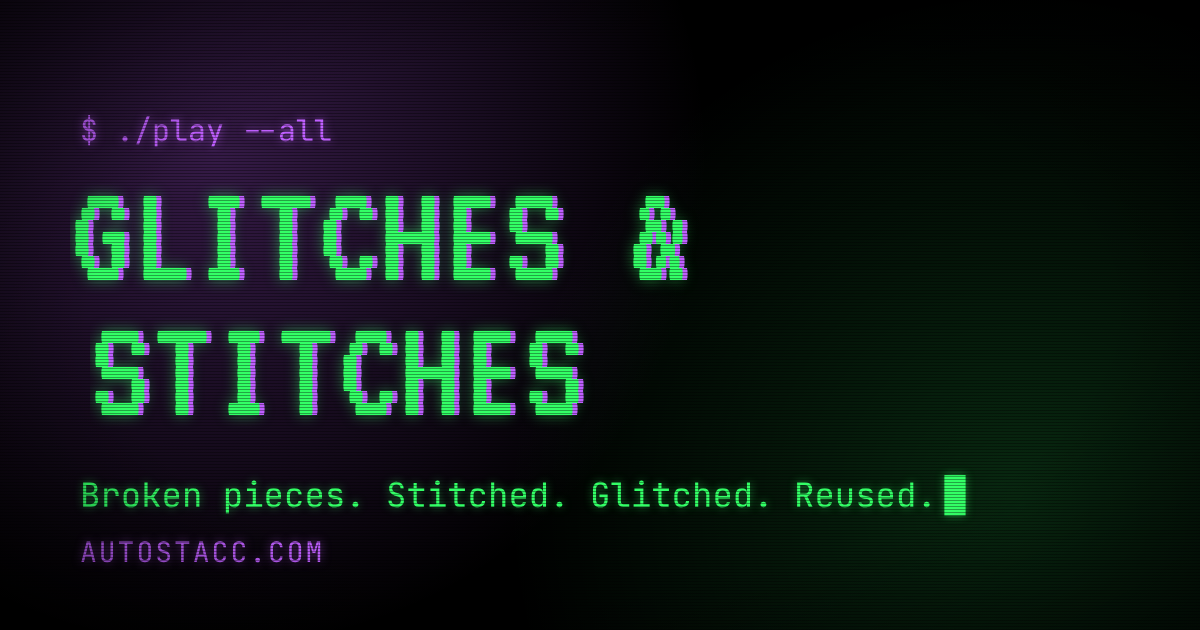
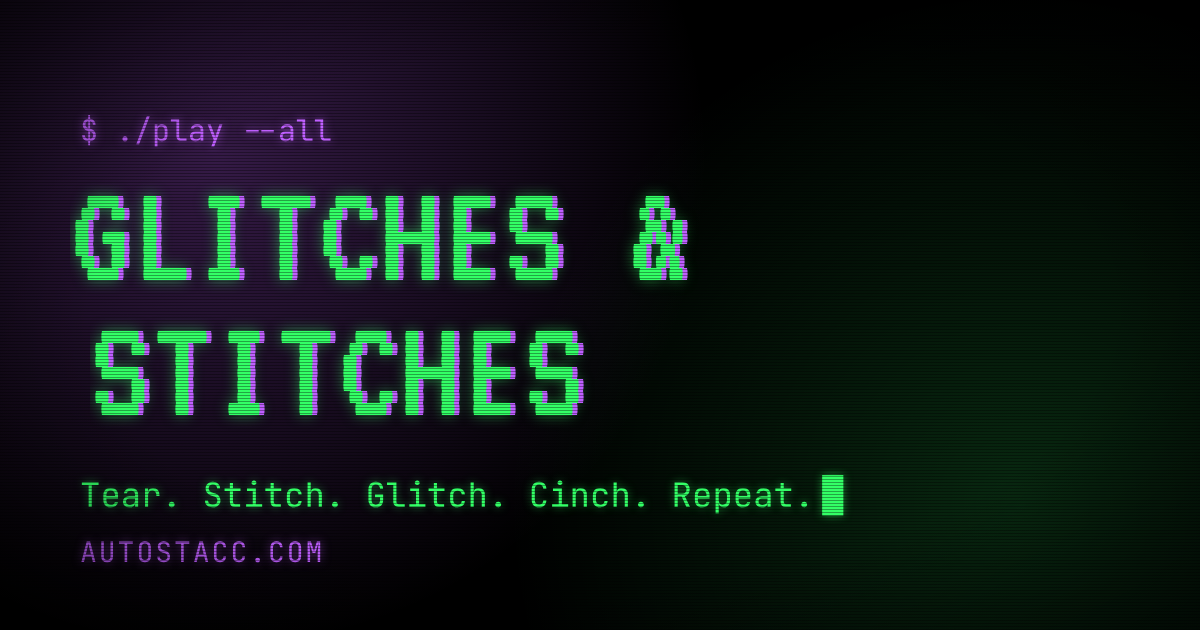
Use the chant Tear. Stitch. Glitch. Cinch. Repeat.
The owner's catchy short form of the process becomes the hero tagline,
the five steps of The loop, terminal commands, the press fact sheet and
the link-preview image, and is recorded in docs/identity.md.

Claude-Session: https://claude.ai/code/session_01MLYjBnQhW3e44tUV22oGeB

Changed region(s): [[0.0617, 0.754, 0.8325, 0.8444]]

diff --git a/home.html b/home.html
@@ -38,7 +38,7 @@
       <div class="wrap">
         <a class="kicker" href="#listen">latest single: HAIL <span>// out now</span></a>
         <h1 class="glitch" data-text="GLITCHES &amp; STITCHES">GLITCHES &amp; STITCHES</h1>
-        <p class="cursor" data-type="450">Broken pieces. Stitched. Glitched. Reused.</p>
+        <p class="cursor" data-type="450">Tear. Stitch. Glitch. Cinch. Repeat.</p>
         <div class="actions">
           <a class="btn" href="#listen">Listen</a>
           <a class="btn ghost" href="shop.html">Shop downloads</a>
@@ -108,13 +108,11 @@
         <div class="section-head"><h2>The loop</h2></div>
         <p class="loop-intro">Every finished track is a parts bin for the next one.</p>
         <ol class="loop">
-          <li><strong>Create</strong> <span>Start a song or an idea.</span></li>
-          <li><strong>Finish</strong> <span>Get it far enough to join the catalog.</span></li>
-          <li><strong>Extract</strong> <span>Pull out the best pieces: a drop, a melody, a texture.</span></li>
-          <li><strong>Stitch</strong> <span>Sew those pieces into another track.</span></li>
-          <li><strong>Glitch</strong> <span>Chop, corrupt and reinterpret them.</span></li>
-          <li><strong>Stitch it all</strong> <span>Combine whole previous tracks. Remix².</span></li>
-          <li><strong>Repeat</strong> <span>Feed it back into the library and go again.</span></li>
+          <li><strong>Tear</strong> <span>Rip the best pieces out of old songs: a drop, a melody, a happy accident.</span></li>
+          <li><strong>Stitch</strong> <span>Sew those fragments together into something new.</span></li>
+          <li><strong>Glitch</strong> <span>Chop, corrupt and reinterpret them until they're their own thing.</span></li>
+          <li><strong>Cinch</strong> <span>Pull it tight and lock it in: finished, into the catalog.</span></li>
+          <li><strong>Repeat</strong> <span>Now it's a piece too. Tear it up again. Remix².</span></li>
         </ol>
       </div>
     </section>

diff --git a/js/terminal.js b/js/terminal.js
@@ -10,15 +10,20 @@
 
   const COMMANDS = {
     help: () =>
-      "commands: ls, open <page>, play hail, loop, whoami, about, booking, sound on|off, remix, hail, date, echo, clear, exit",
+      "commands: ls, open <page>, play hail, loop, tear, stitch, glitch, cinch, repeat, whoami, about, booking, sound on|off, remix, hail, date, echo, clear, exit",
     ls: () => "home/  music/  shows/  shop/  news/  press/  hail.wav  unfinished_ideas/ (412 files)",
     open: (a) => ({ home: go("home.html"), music: go("home.html#listen"), shows: go("home.html#shows"), shop: go("shop.html"),
       news: go("news.html"), press: go("press.html") }[a] || (() => `open: no such page: ${a || "(nothing)"}. try ls`))(),
     cd: (a) => COMMANDS.open(a.replace(/\/$/, "")),
     play: (a) => (/hail/i.test(a) ? go("home.html#listen")() : "play: try `play hail`"),
-    loop: () => "[01] create  [02] finish  [03] extract  [04] stitch  [05] glitch  [06] stitch it all  [07] repeat ↻ 01",
+    loop: () => "[01] tear  [02] stitch  [03] glitch  [04] cinch  [05] repeat ↻ 01",
     whoami: () => "guest. or a fragment that hasn't been stitched in yet.",
-    about: () => "Glitches & Stitches: unfinished songs are raw material. take broken pieces, stitch them, glitch them, reuse them.",
+    about: () => "Glitches & Stitches: unfinished songs are raw material. tear. stitch. glitch. cinch. repeat.",
+    tear: () => "> ripping fragments out of old songs... 412 found.",
+    stitch: () => "> sewing fragments together... done. it holds.",
+    glitch: () => { emit("gs:sound", "zap"); return "> c̷o̴r̶r̸u̵p̶t̷i̵n̴g... perfect."; },
+    cinch: () => "> pulled tight. locked in. added to the catalog.",
+    repeat: () => "> it's a piece now too. back to: tear.",
     booking: () => (SITE.email ? `> ${SITE.email} (or /press)` : "> see /press"),
     sound: (a) => {
       if (a !== "on" && a !== "off") return "usage: sound on|off";

diff --git a/press.html b/press.html
@@ -68,7 +68,7 @@
             <dl class="facts">
               <dt>Project</dt><dd>Glitches &amp; Stitches</dd>
               <dt>Genre</dt><dd>Electronic / EDM</dd>
-              <dt>Method</dt><dd>Extract, stitch, glitch, reuse</dd>
+              <dt>Method</dt><dd>Tear. Stitch. Glitch. Cinch. Repeat.</dd>
               <dt>Latest</dt><dd>HAIL (single, 2025)</dd>
               <dt>Website</dt><dd><a href="home.html">autostacc.com</a></dd>
             </dl>

diff --git a/css/home.css b/css/home.css
@@ -149,7 +149,7 @@
   padding: 10px 0;
 }
 .loop strong {
-  min-width: 21ch;
+  min-width: 12ch;
   color: var(--green);
   text-transform: uppercase;
   letter-spacing: .06em;

diff --git a/docs/brand.md b/docs/brand.md
@@ -15,13 +15,13 @@ Old-school terminal (owner's choice, 2026-10-07): a glowing CRT screen in three 
 - Black background (`#000`, panels `#0b0812`). White `#f2f2f2` for reading text (light grey `#b8b8c0` for secondary text), phosphor green `#33ff66` for headings, prices and the logo (dim `#24b350` for nav, footer and dates), neon purple `#bf5fff` for links, buttons, tags and show dates
 - Soft glow on green and purple text, scanlines and darkened screen edges over the page, square corners
 - Terminal touches: `$ ` before section titles, `> ` on buttons and the current nav link, a blinking block cursor after the hero tagline
-- Stitching is a feel, not a decoration: no sewing lines, dashes or stitch marks. Instead things look pieced together from fragments: alternate panels (`.alt`) have small steps in their top and bottom edges like fitted pieces, cards and news items sit slightly off a purple copy of themselves and snap into place on hover, the About monogram is torn in half and rejoined misaligned, and "The loop" reads like a terminal log (`[01] CREATE` ... `[07] REPEAT ↻ 01`)
+- Stitching is a feel, not a decoration: no sewing lines, dashes or stitch marks. Instead things look pieced together from fragments: alternate panels (`.alt`) have small steps in their top and bottom edges like fitted pieces, cards and news items sit slightly off a purple copy of themselves and snap into place on hover, the About monogram is torn in half and rejoined misaligned, and "The loop" reads like a terminal log (`[01] TEAR` ... `[05] REPEAT ↻ 01`), using the chant from [identity](identity.md): Tear. Stitch. Glitch. Cinch. Repeat.
 - Thin solid 1px lines for structure
 - Glitching is constant but small: page titles twitch in bursts, and every 6 to 14 seconds one visible title (section heading, cover, loop step or logo) "zaps" briefly (`js/motion.js`). Glitch and cursor stop for reduced-motion users
 - Nothing stops moving between pages: changing page is a view transition where the header stays put, the old page slices out and the new one skews in (`@view-transition` in `css/base.css`, Chrome/Edge/Safari; others just load). The rolling refresh band runs on wall-clock time so it carries on across pages, and the shop filter cross-fades its cards
 - Motion is quick and snappy (`--snap` easing, 0.1 to 0.5s): the home title powers on like a CRT, the hero tagline types itself out, sections flicker on and cards, news and shows rise in as you scroll (`js/motion.js`), the glitch title twitches in short bursts every few seconds, and a faint refresh band rolls down the screen. Hover: cards lift and glow with scrolling scanlines and a one-off title twitch, links wipe in an underline, buttons press in. All of it is off for reduced-motion users.
 - Sound is opt-in: a `[SND:OFF]` switch in the header (remembered per browser). Sounds are made in the browser (`js/sound.js`), short and quiet: a bit-crushed blip on clicks, a burst of static when leaving a page, a crackle on glitch zaps, key ticks while the tagline types. Never background music or autoplay (WCAG 1.4.2). Other scripts request sounds with a `gs:sound` event. Later these can be swapped for fragments of HAIL and future tracks.
-- Easter eggs (hidden, on-identity, never in the way): `~` opens a terminal (`js/terminal.js`: help, ls, open, play hail, loop, whoami, sound, remix, and jokes like `sudo`), typing "hail" makes it hail, the Konami code tears the page and swaps green and purple ("remix²", for the visit), five clicks on the About monogram shatter it, the tab title becomes "[signal lost]" when you leave, a console hello, rotating 404 jokes (`js/eggs.js`, `css/eggs.css`). Reduced motion keeps the messages but skips the animation.
+- Easter eggs (hidden, on-identity, never in the way): `~` opens a terminal (`js/terminal.js`: help, ls, open, play hail, loop, whoami, sound, remix, each step of the chant as its own command, and jokes like `sudo`), typing "hail" makes it hail, the Konami code tears the page and swaps green and purple ("remix²", for the visit), five clicks on the About monogram shatter it, the tab title becomes "[signal lost]" when you leave, a console hello, rotating 404 jokes (`js/eggs.js`, `css/eggs.css`). Reduced motion keeps the messages but skips the animation.
 - Product covers glow green or purple depending on the product's `hue`
 - Fonts: VT323 (pixel terminal font) for the logo, headings and covers; JetBrains Mono for everything else
 

diff --git a/docs/log.md b/docs/log.md
@@ -8,6 +8,7 @@ updated: 2026-10-07
 
 Newest first.
 
+- 2026-10-07: The process has a catchy short form from the owner: Tear. Stitch. Glitch. Cinch. Repeat. Used as the hero tagline, the five steps of "The loop", the terminal (`loop` plus one command per step) the press fact sheet and the link-preview image (`img/og.png`); recorded in `docs/identity.md`.
 - 2026-10-07: Added the YouTube Music link for HAIL (from the owner, verified) to the Listen buttons and the HAIL news post.
 - 2026-10-07: HAIL wired in (Deezer player, Apple Music and Deezer links, real news post replacing "Patchwork", hero line, fact sheet, Apple Music and Deezer artist profiles in the footer). Added opt-in browser-generated UI sound (`js/sound.js`) and easter eggs (`js/eggs.js`, `js/terminal.js`, `css/eggs.css`) on every page. `verify-site` now ignores console errors from embedded players.
 - 2026-10-07: Professional pass: Listen section (`data/music.js`, `js/music.js`), press page (`press.html`, `js/press.js`, `css/press.css`) linked from the nav and footer, themed `404.html`, icons and link-preview image in `img/`, Open Graph/canonical/theme tags, `robots.txt`, `sitemap.xml`, MusicGroup and ticketed MusicEvent structured data, skip link and `aria-current`, placeholder links hidden, inline styles removed. Deploy uploads the new files; `tree.sh` reads `.txt`, `.xml` and image purposes. Tested with `wrangler pages dev`.

diff --git a/docs/identity.md b/docs/identity.md
@@ -21,7 +21,15 @@ Unfinished songs are raw material, not failures. A half-finished song can contai
 
 ## The loop
 
-The project is intentionally recursive:
+**Short form (the owner's chant):** Tear. Stitch. Glitch. Cinch. Repeat.
+
+- **Tear:** rip the best pieces out of old songs.
+- **Stitch:** sew the fragments together into something new.
+- **Glitch:** chop, corrupt and reinterpret them.
+- **Cinch:** pull it tight and lock it in; the track is finished and joins the catalog.
+- **Repeat:** the new track is a piece too; tear it up again (remix²).
+
+Use the short form in copy, titles and promotion. The full process it stands for is intentionally recursive:
 
 1. Create a song or musical idea.
 2. Finish it enough to become part of the Glitches & Stitches catalog.
